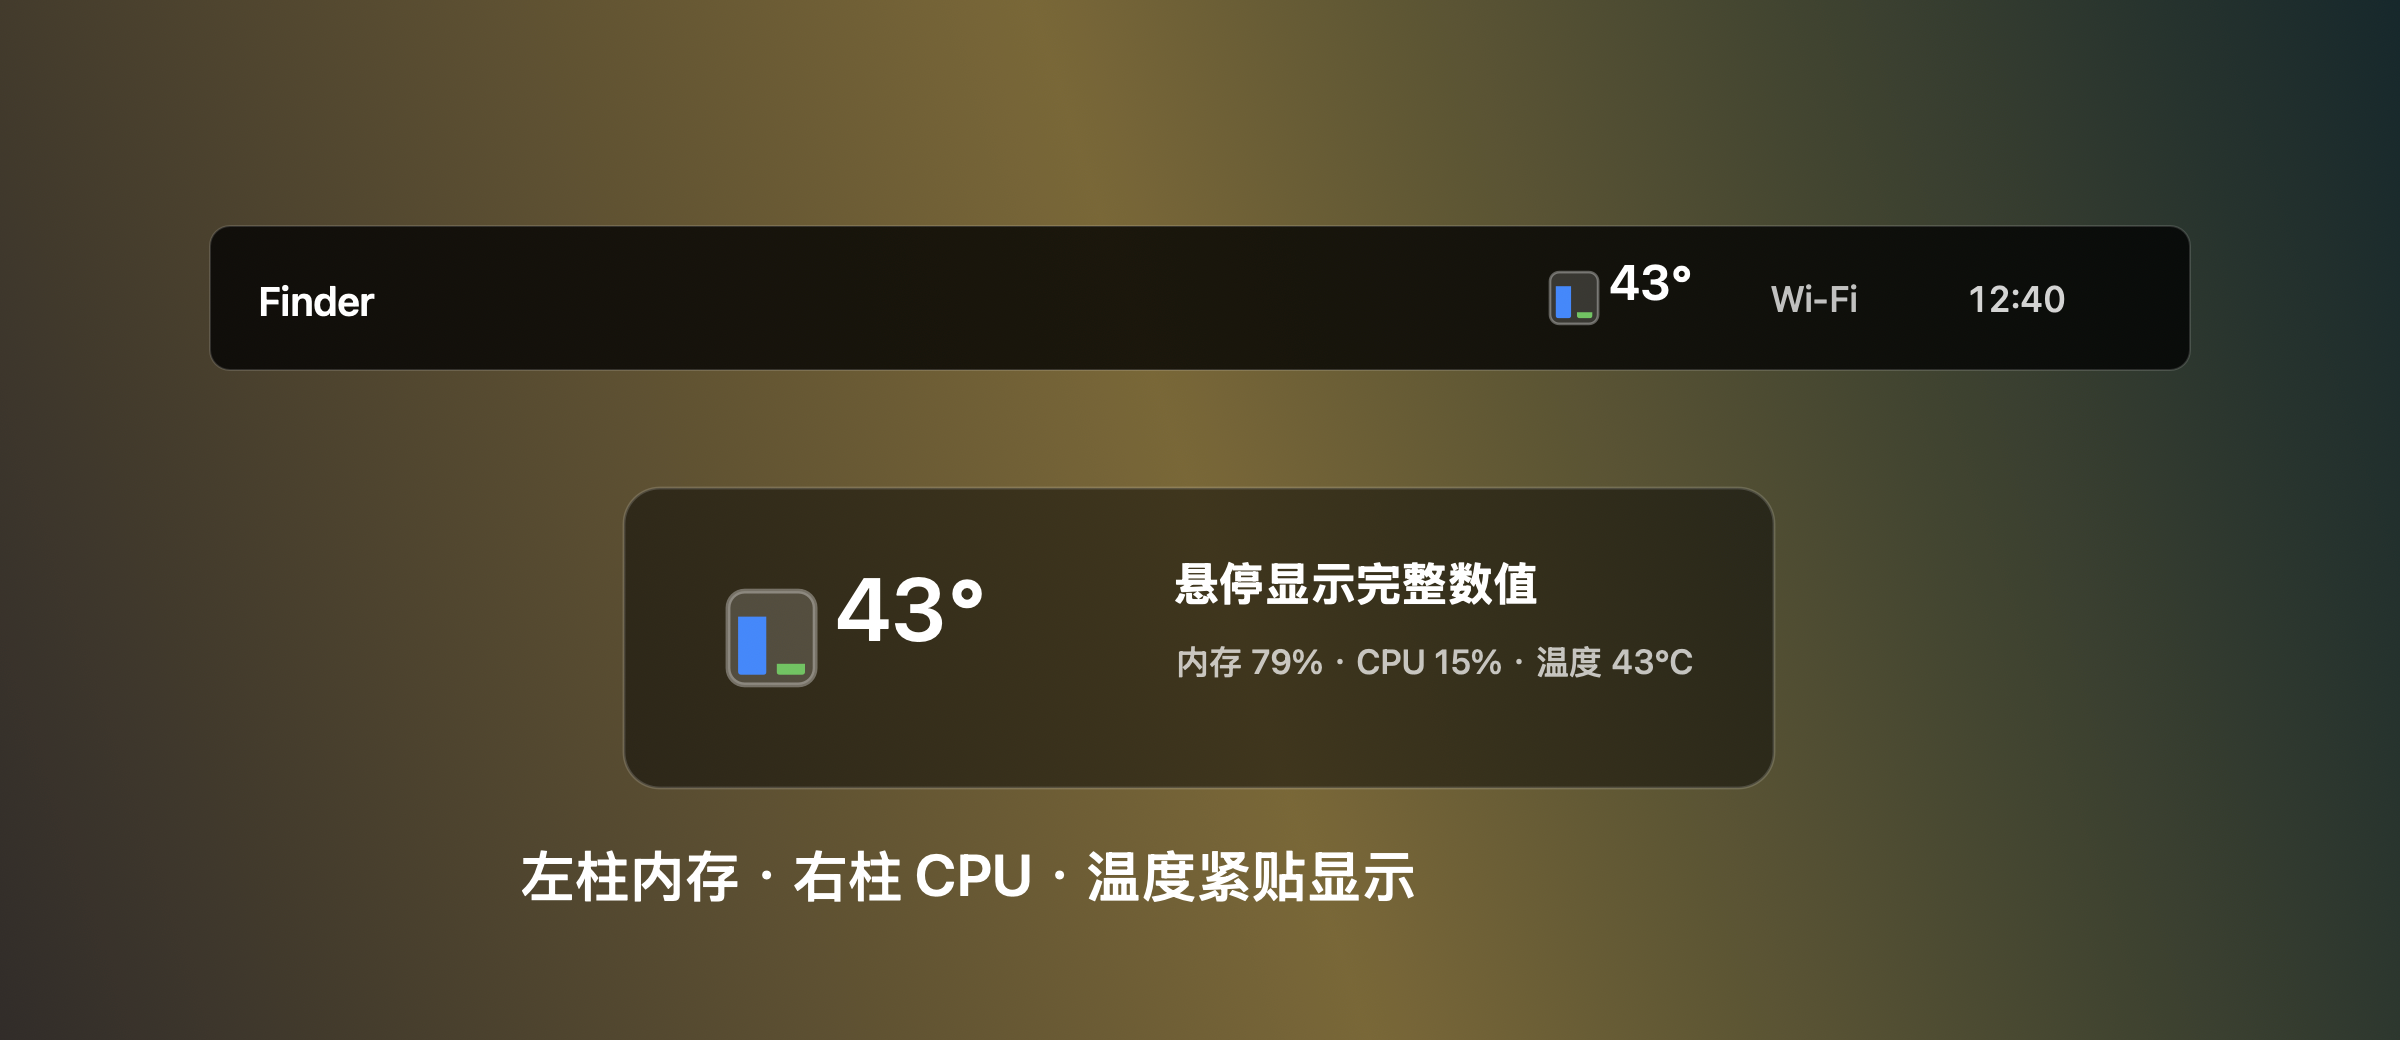
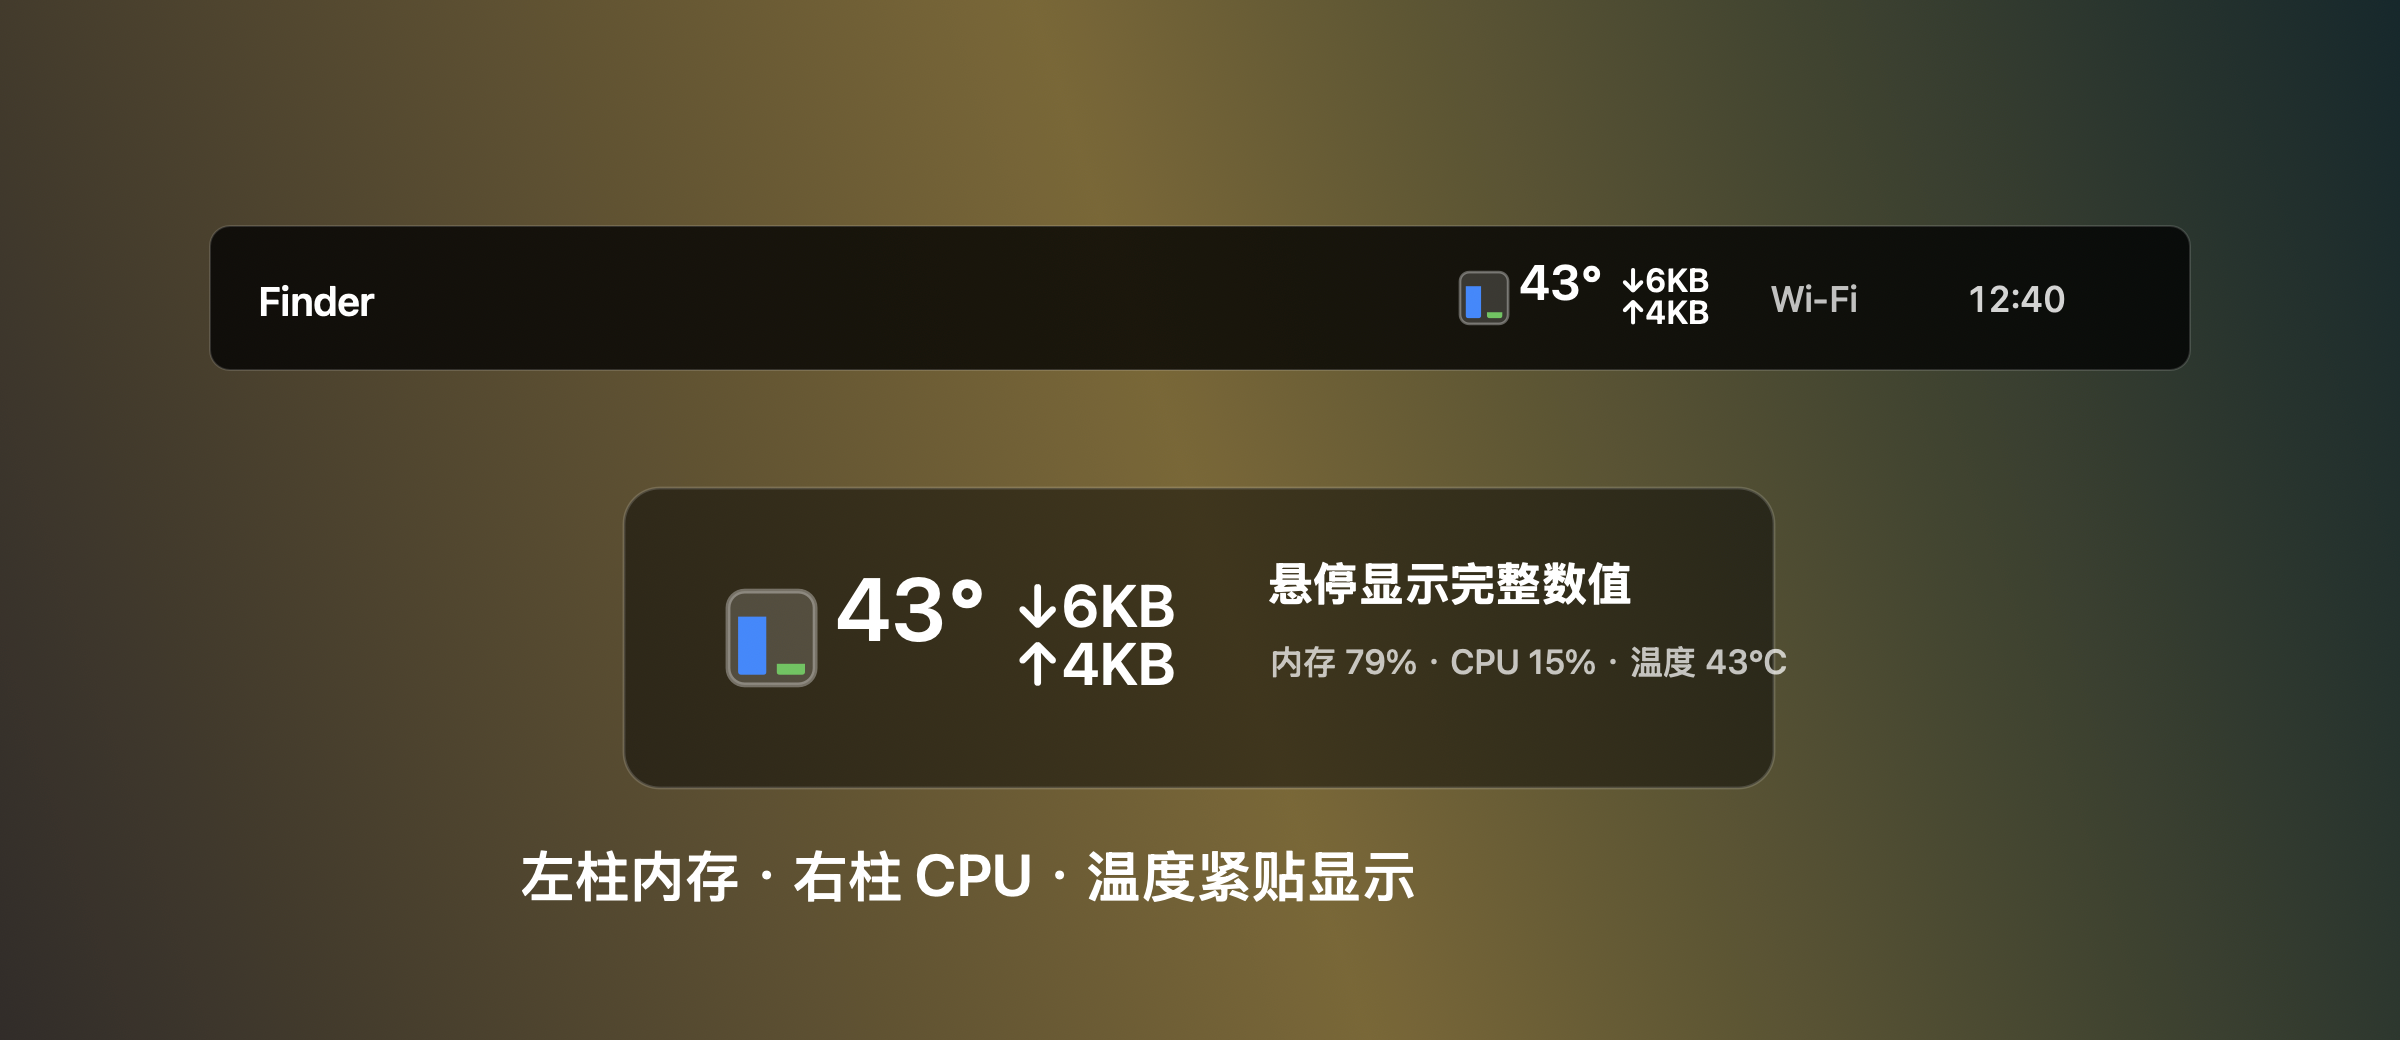
Prepare v0.7.1 release

Changed region(s): [[0.4062, 0.5231, 0.75, 0.6769], [0.5938, 0.2462, 0.7188, 0.3077]]

diff --git a/Scripts/generate-marketing-assets.swift b/Scripts/generate-marketing-assets.swift
@@ -116,8 +116,8 @@ func drawMenuBar(in rect: NSRect, widgetScale: CGFloat) {
     drawText("Wi-Fi", in: NSRect(x: rect.maxX - 210, y: rect.minY + rect.height * 0.31, width: 60, height: 24), font: .systemFont(ofSize: rect.height * 0.25, weight: .medium), color: NSColor.white.withAlphaComponent(0.74))
     drawText("12:40", in: NSRect(x: rect.maxX - 112, y: rect.minY + rect.height * 0.31, width: 70, height: 24), font: .monospacedDigitSystemFont(ofSize: rect.height * 0.25, weight: .medium), color: NSColor.white.withAlphaComponent(0.82))
 
-    let widgetWidth = 82 * widgetScale
-    let widgetRect = NSRect(x: rect.maxX - 320, y: rect.midY - 12 * widgetScale, width: widgetWidth, height: 24 * widgetScale)
+    let widgetWidth = 86 * widgetScale
+    let widgetRect = NSRect(x: rect.maxX - 365, y: rect.midY - 12 * widgetScale, width: widgetWidth, height: 24 * widgetScale)
     drawCompactWidget(in: widgetRect, temperature: "43°", scale: widgetScale)
 }
 
@@ -129,9 +129,9 @@ func drawLargeWidget(in rect: NSRect) {
     path.lineWidth = 1.4
     path.stroke()
 
-    drawCompactWidget(in: NSRect(x: rect.minX + 52, y: rect.midY - 42, width: 220, height: 84), temperature: "43°", scale: 3.35)
-    drawText("悬停显示完整数值", in: NSRect(x: rect.minX + 275, y: rect.midY + 8, width: 210, height: 34), font: .systemFont(ofSize: 24, weight: .bold), color: .white)
-    drawText("内存 79% · CPU 15% · 温度 43°C", in: NSRect(x: rect.minX + 276, y: rect.midY - 30, width: 295, height: 28), font: .systemFont(ofSize: 17, weight: .medium), color: NSColor.white.withAlphaComponent(0.72))
+    drawCompactWidget(in: NSRect(x: rect.minX + 52, y: rect.midY - 42, width: 264, height: 84), temperature: "43°", scale: 3.35)
+    drawText("悬停显示完整数值", in: NSRect(x: rect.minX + 322, y: rect.midY + 8, width: 210, height: 34), font: .systemFont(ofSize: 24, weight: .bold), color: .white)
+    drawText("内存 79% · CPU 15% · 温度 43°C", in: NSRect(x: rect.minX + 323, y: rect.midY - 30, width: 295, height: 28), font: .systemFont(ofSize: 17, weight: .medium), color: NSColor.white.withAlphaComponent(0.72))
 }
 
 func drawTinyReadouts(in rect: NSRect) {
@@ -162,10 +162,28 @@ func drawCompactWidget(in rect: NSRect, temperature: String, scale: CGFloat) {
     drawColumn(NSRect(x: inner.minX, y: inner.minY, width: columnWidth, height: inner.height), fraction: 0.79, color: .systemBlue)
     drawColumn(NSRect(x: inner.minX + columnWidth + gap, y: inner.minY, width: columnWidth, height: inner.height), fraction: 0.15, color: .systemGreen)
 
+    let temperatureFont = NSFont.monospacedDigitSystemFont(ofSize: 13.2 * scale, weight: .semibold)
+    let networkFont = NSFont.monospacedDigitSystemFont(ofSize: 8.8 * scale, weight: .semibold)
+    let temperatureX = trackRect.maxX + 3 * scale
+    let temperatureWidth = ceil(temperature.size(withAttributes: [.font: temperatureFont]).width)
     drawText(
         temperature,
-        in: NSRect(x: trackRect.maxX + 3 * scale, y: rect.midY - 9.5 * scale, width: rect.width - trackRect.width, height: 22 * scale),
-        font: .monospacedDigitSystemFont(ofSize: 13.2 * scale, weight: .semibold),
+        in: NSRect(x: temperatureX, y: rect.midY - 9.5 * scale, width: temperatureWidth + 2 * scale, height: 22 * scale),
+        font: temperatureFont,
+        color: .white
+    )
+
+    let networkX = temperatureX + temperatureWidth + 4 * scale
+    drawText(
+        "↓6KB",
+        in: NSRect(x: networkX, y: rect.midY + 0.4 * scale, width: rect.maxX - networkX, height: 10 * scale),
+        font: networkFont,
+        color: .white
+    )
+    drawText(
+        "↑4KB",
+        in: NSRect(x: networkX, y: rect.midY - 8.3 * scale, width: rect.maxX - networkX, height: 10 * scale),
+        font: networkFont,
         color: .white
     )
 }
@@ -184,7 +202,7 @@ func drawDownloadPill(in rect: NSRect) {
     let path = NSBezierPath(roundedRect: rect, xRadius: 8, yRadius: 8)
     NSColor(calibratedRed: 0.68, green: 0.93, blue: 0.9, alpha: 1).setFill()
     path.fill()
-    drawText("下载 v0.7.0", in: NSRect(x: rect.minX + 30, y: rect.minY + 14, width: rect.width - 60, height: 24), font: .systemFont(ofSize: 20, weight: .bold), color: NSColor(calibratedRed: 0.04, green: 0.1, blue: 0.1, alpha: 1))
+    drawText("下载 v0.7.1", in: NSRect(x: rect.minX + 30, y: rect.minY + 14, width: rect.width - 60, height: 24), font: .systemFont(ofSize: 20, weight: .bold), color: NSColor(calibratedRed: 0.04, green: 0.1, blue: 0.1, alpha: 1))
 }
 
 func drawThermometer(size: CGFloat, origin: CGPoint) {

diff --git a/Sources/MacHealthGuardian/Rendering/StatusImageRenderer.swift b/Sources/MacHealthGuardian/Rendering/StatusImageRenderer.swift
@@ -4,7 +4,7 @@ import MacHealthGuardianCore
 final class StatusImageRenderer {
     private let height: CGFloat = 22
     private let temperatureFont = NSFont.monospacedDigitSystemFont(ofSize: 13.2, weight: .semibold)
-    private let networkFont = NSFont.monospacedDigitSystemFont(ofSize: 10.2, weight: .medium)
+    private let networkFont = NSFont.monospacedDigitSystemFont(ofSize: 8.8, weight: .semibold)
     private let defaultMetrics: [MenuBarDisplayMetric] = [.memoryPressure, .memoryUsage, .cpuUsage]
 
     var placeholderSize: NSSize {
@@ -33,9 +33,12 @@ final class StatusImageRenderer {
         let temperatureAttributes: [NSAttributedString.Key: Any] = [.font: temperatureFont]
         let networkAttributes: [NSAttributedString.Key: Any] = [.font: networkFont]
         let temperatureWidth = ceil(snapshot.temperatureShortText.size(withAttributes: temperatureAttributes).width)
-        let networkWidth = ceil(snapshot.network.shortText.size(withAttributes: networkAttributes).width)
+        let networkWidth = max(
+            ceil(snapshot.network.downloadShortText.size(withAttributes: networkAttributes).width),
+            ceil(snapshot.network.uploadShortText.size(withAttributes: networkAttributes).width)
+        )
         let textX = textStartX(metricCount: displayMetrics.count)
-        return NSSize(width: max(38, textX + temperatureWidth + 5 + networkWidth + 1), height: height)
+        return NSSize(width: max(38, textX + temperatureWidth + 4 + networkWidth + 1), height: height)
     }
 
     private func draw(_ snapshot: SystemSnapshot, displayMetrics: [MenuBarDisplayMetric], size: NSSize) {
@@ -53,7 +56,7 @@ final class StatusImageRenderer {
             temperature: snapshot.coreTemperatureC,
             x: textStartX(metricCount: displayMetrics.count)
         )
-        drawNetworkText(snapshot.network.shortText, x: networkX + 5)
+        drawNetworkText(snapshot.network, temperature: snapshot.coreTemperatureC, x: networkX + 4)
     }
 
     private func drawMetricBars(
@@ -126,13 +129,17 @@ final class StatusImageRenderer {
         return x + ceil(text.size(withAttributes: attributes).width)
     }
 
-    private func drawNetworkText(_ text: String, x: CGFloat) {
+    private func drawNetworkText(_ network: NetworkSnapshot, temperature: Double?, x: CGFloat) {
         let attributes: [NSAttributedString.Key: Any] = [
             .font: networkFont,
-            .foregroundColor: NSColor.secondaryLabelColor
+            .foregroundColor: temperatureTextColor(temperature)
         ]
-        text.draw(
-            at: NSPoint(x: x, y: 4.4),
+        network.downloadShortText.draw(
+            at: NSPoint(x: x, y: 10.4),
+            withAttributes: attributes
+        )
+        network.uploadShortText.draw(
+            at: NSPoint(x: x, y: 1.7),
             withAttributes: attributes
         )
     }

diff --git a/docs/index.html b/docs/index.html
@@ -360,7 +360,7 @@
         <h1>DDQ's Cyber Thermometer</h1>
         <p class="lead">动动枪赛博体温计，一个安静待在 macOS 顶栏里的电脑状态小组件。内存、CPU、核心温度、下载和上传速率，一眼看完；点击可查看风扇转速、开机启动和在线升级。</p>
         <div class="actions">
-          <a class="button primary" data-release-link href="#">下载 v0.7.0</a>
+          <a class="button primary" data-release-link href="#">下载 v0.7.1</a>
           <a class="button secondary" data-source-link href="#">查看源码</a>
         </div>
       </div>
@@ -412,14 +412,14 @@
       <div class="section-inner install">
         <div>
           <h2 class="section-heading">下载 DMG，拖进 Applications。</h2>
-          <p class="section-copy">代码开放，安装包放在 GitHub Release。当前版本是 v0.7.0。</p>
+          <p class="section-copy">代码开放，安装包放在 GitHub Release。当前版本是 v0.7.1。</p>
           <div class="actions">
             <a class="button primary" data-release-link href="#">打开 Release 下载</a>
           </div>
         </div>
         <div>
           <ol class="steps">
-            <li data-step="1"><strong>下载</strong>获取 `DDQs-Cyber-Thermometer-0.7.0.dmg`。</li>
+            <li data-step="1"><strong>下载</strong>获取 `DDQs-Cyber-Thermometer-0.7.1.dmg`。</li>
             <li data-step="2"><strong>安装</strong>打开 DMG，把 App 拖到 Applications。</li>
             <li data-step="3"><strong>运行</strong>打开后它会出现在顶栏，不显示 Dock 图标。</li>
           </ol>
@@ -431,7 +431,7 @@
 
   <footer>
     <div class="footer-inner">
-      <span>MIT License · v0.7.0</span>
+      <span>MIT License · v0.7.1</span>
       <a data-source-link href="#">GitHub</a>
     </div>
   </footer>

diff --git a/Sources/MacHealthGuardianCore/Models/NetworkSnapshot.swift b/Sources/MacHealthGuardianCore/Models/NetworkSnapshot.swift
@@ -29,6 +29,14 @@ public struct NetworkSnapshot: Sendable {
         "↓\(downloadBytesPerSecond.compactBytesPerSecondText) ↑\(uploadBytesPerSecond.compactBytesPerSecondText)"
     }
 
+    public var downloadShortText: String {
+        "↓\(downloadBytesPerSecond.compactBytesPerSecondText)"
+    }
+
+    public var uploadShortText: String {
+        "↑\(uploadBytesPerSecond.compactBytesPerSecondText)"
+    }
+
     public var interfaceText: String {
         guard !activeInterfaceNames.isEmpty else { return "暂无实时流量" }
         return activeInterfaceNames.joined(separator: ", ")

diff --git a/RELEASE_NOTES.md b/RELEASE_NOTES.md
@@ -1,12 +1,14 @@
-# DDQ's Cyber Thermometer v0.7.0
+# DDQ's Cyber Thermometer v0.7.1
 
 中文名：动动枪赛博体温计
 
-本版本加入状态栏实时网络流量监看，顶栏可直接看到下载和上传速率，VPN/隧道接口流量也会计入统计。
+本版本优化顶栏实时网络流量的视觉显示，让下载和上传速率更紧凑、更清晰。
 
 ## 功能
 
 - 顶栏融合小组件：迷你柱显示内存压力、内存和 CPU，右侧显示核心温度。
+- 下载和上传速率改为上下两行显示，减少状态栏横向占用。
+- 网络速率文字改为跟温度数字一致的高对比颜色，避免和背景融在一起。
 - 顶栏显示实时下载和上传速率，自动使用 `KB/s` 或 `MB/s`。
 - 网络统计观察常规网卡和 VPN/隧道接口，包括 `en*`、`utun*`、`ppp*`、`tun*`、`tap*`、`wg*` 等，并尽量避免同一条 VPN 流量被重复计算。
 - 鼠标悬停显示完整数值。
@@ -30,8 +32,8 @@
 
 ## 安装
 
-下载 `DDQs-Cyber-Thermometer-0.7.0.dmg`，打开后把 `动动枪赛博体温计.app` 拖到 Applications。
+下载 `DDQs-Cyber-Thermometer-0.7.1.dmg`，打开后把 `动动枪赛博体温计.app` 拖到 Applications。
 
-Release 同时提供 `DDQs-Cyber-Thermometer-0.7.0.app.zip`，供 App 内在线升级优先使用。
+Release 同时提供 `DDQs-Cyber-Thermometer-0.7.1.app.zip`，供 App 内在线升级优先使用。
 
 当前安装包为本地临时签名，未做 Apple Developer ID 公证。首次打开时如遇到系统拦截，可右键 App 选择“打开”，或在“系统设置 > 隐私与安全性”中允许打开。

diff --git a/docs/design/project-structure.md b/docs/design/project-structure.md
@@ -81,7 +81,7 @@ Swift Package 配置。当前定义：
 
 ### `Info.plist`
 
-App Bundle 元信息。当前 bundle 标识为 `com.dongdongqiang.cyber-thermometer`，展示名为“动动枪赛博体温计”，版本为 `0.7.0`。`LSUIElement` 为 `true`，表示 App 作为菜单栏应用运行，不显示 Dock 图标。
+App Bundle 元信息。当前 bundle 标识为 `com.dongdongqiang.cyber-thermometer`，展示名为“动动枪赛博体温计”，版本为 `0.7.1`。`LSUIElement` 为 `true`，表示 App 作为菜单栏应用运行，不显示 Dock 图标。
 
 ### `Sources/MacHealthGuardian/`
 
@@ -127,7 +127,7 @@ Core target，负责可复用、可测试的核心逻辑：
 ### `README.md` 与 `RELEASE_NOTES.md`
 
 - `README.md`：面向使用者和维护者的项目说明，包含下载、功能、打包、温度/风扇说明、在线升级和发布方式。
-- `RELEASE_NOTES.md`：当前版本发布说明，描述 v0.7.0 的功能和安装信息。
+- `RELEASE_NOTES.md`：当前版本发布说明，描述 v0.7.1 的功能和安装信息。
 
 ## 当前代码组织特点
 

diff --git a/README.md b/README.md
@@ -10,8 +10,8 @@
 
 公开版本会放在 GitHub Release：
 
-- 下载最新版：`Releases` 页面里的 `DDQs-Cyber-Thermometer-0.7.0.dmg`
-- 当前版本：`v0.7.0`
+- 下载最新版：`Releases` 页面里的 `DDQs-Cyber-Thermometer-0.7.1.dmg`
+- 当前版本：`v0.7.1`
 - 许可证：MIT
 
 安装方式：打开 DMG，把 `动动枪赛博体温计.app` 拖到 `Applications`。
@@ -58,10 +58,10 @@ Scripts/package-dmg.sh
 生成：
 
 ```text
-dist/DDQs-Cyber-Thermometer-0.7.0.dmg
-dist/DDQs-Cyber-Thermometer-0.7.0.dmg.sha256
-dist/DDQs-Cyber-Thermometer-0.7.0.app.zip
-dist/DDQs-Cyber-Thermometer-0.7.0.app.zip.sha256
+dist/DDQs-Cyber-Thermometer-0.7.1.dmg
+dist/DDQs-Cyber-Thermometer-0.7.1.dmg.sha256
+dist/DDQs-Cyber-Thermometer-0.7.1.app.zip
+dist/DDQs-Cyber-Thermometer-0.7.1.app.zip.sha256
 ```
 
 只构建 App：

diff --git a/docs/design/memory-pressure-display-design.md b/docs/design/memory-pressure-display-design.md
@@ -116,7 +116,7 @@ CPU 占用 18%
 风扇转速 --
 更新 19:20
 复制诊断信息
-版本 0.7.0
+版本 0.7.1
 ```
 
 当信息过多时，可以先保留一级明细：
